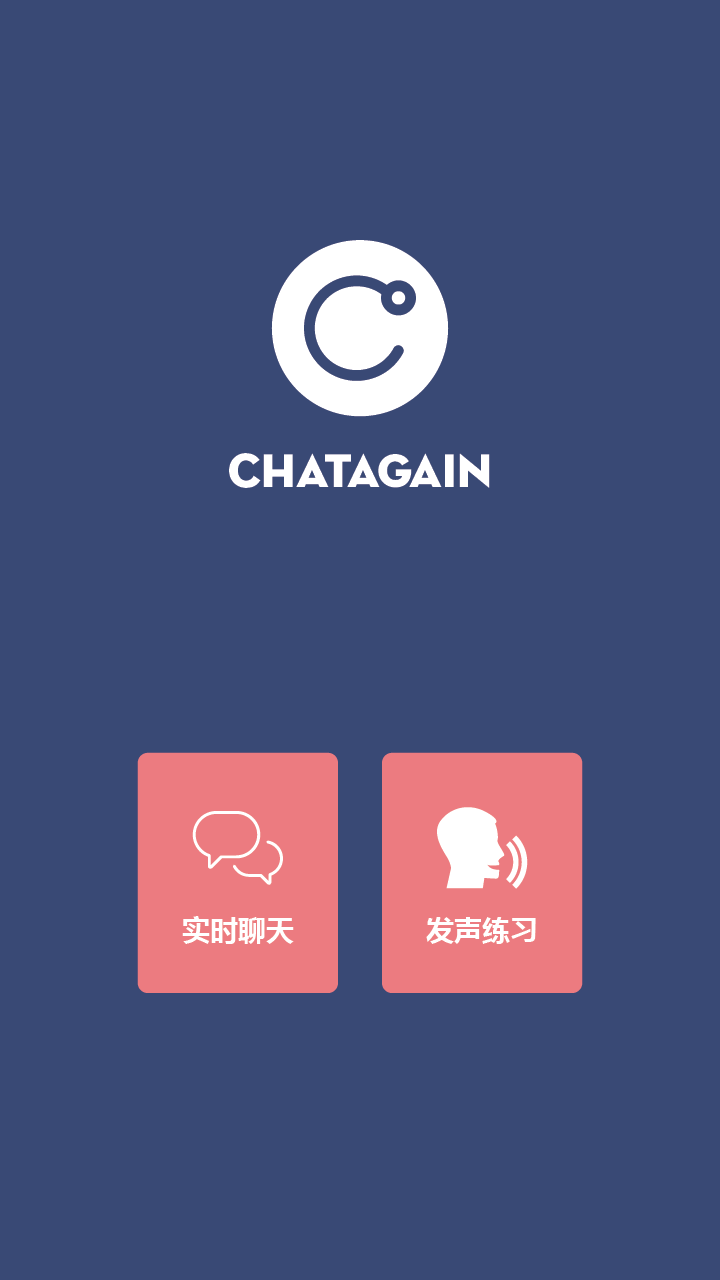
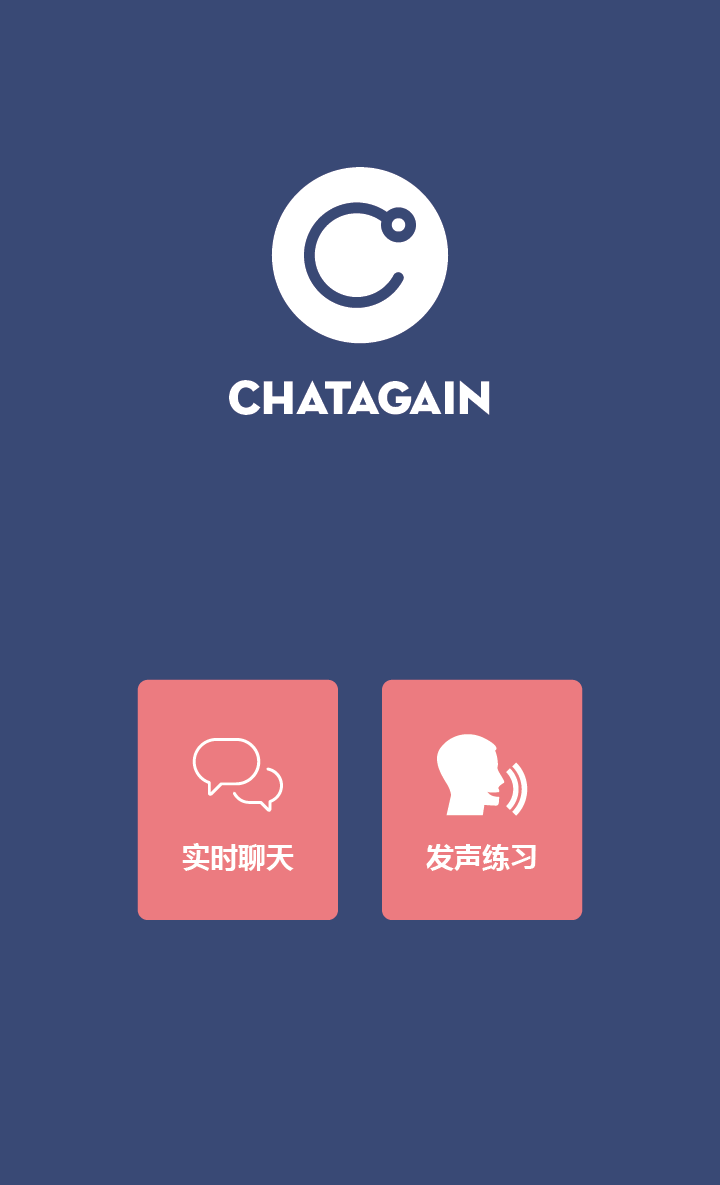
add qingjingmoni

diff --git a/chatAgain/qingjingmoni.xaml b/chatAgain/qingjingmoni.xaml
@@ -1,5 +1,5 @@
 <Page
-    x:Class="chatAgain.practicePage"
+    x:Class="chatAgain.qingjingmoni"
     xmlns="http://schemas.microsoft.com/winfx/2006/xaml/presentation"
     xmlns:x="http://schemas.microsoft.com/winfx/2006/xaml"
     xmlns:local="using:chatAgain"
@@ -9,7 +9,7 @@
 
     <Grid>
         <Grid.Background>
-            <ImageBrush Stretch="Fill" ImageSource="Assets/Projects for Accessbility-07.png"/>
+            <ImageBrush Stretch="Fill" ImageSource="Assets/Projects for Accessbility-08.png"/>
         </Grid.Background>
         <Grid.RowDefinitions>
             <RowDefinition Height="Auto" />
@@ -19,7 +19,7 @@
             <Button Name="HamButton" FontFamily="Segoe MDL2 Assets" Content="&#xE700;" FontSize="36" Click="HamClick" Foreground="White" Background="#FF2C2C2C"/>
             <TextBlock FontSize="25" HorizontalAlignment="Center" Margin="65,10,38,0" Text="CHATAGAIN" VerticalAlignment="Top" Foreground="White" FontFamily="Segoe UI Semibold"/>
         </RelativePanel>
-        <SplitView Name ="SpVi" Grid.Row="1" DisplayMode="Overlay" OpenPaneLength="200" CompactPaneLength="56" HorizontalAlignment="Left" PaneBackground="LightGray" Opacity="0.4">
+        <SplitView Name ="SpVi" Grid.Row="1" DisplayMode="Overlay" OpenPaneLength="200" CompactPaneLength="56" HorizontalAlignment="Left" PaneBackground="LightGray">
             <SplitView.Pane>
                 <ListBox Background="#FF2C2C2C" SelectionMode="Single" Name="ListBox" SelectionChanged="listChange">
                     <ListBoxItem Name="main">
@@ -39,9 +39,6 @@
                     </ListBoxItem>
                 </ListBox>
             </SplitView.Pane>
-            <SplitView.Content>
-                <Rectangle Fill="#FFC36464" HorizontalAlignment="Left" Height="34" Margin="240,10,0,0" Grid.Row="1" VerticalAlignment="Top" Width="67" Tapped="Rectangle_Tapped" Opacity="0"/>
-            </SplitView.Content>
         </SplitView>
     </Grid>
 </Page>

diff --git a/chatAgain/MainPage.xaml b/chatAgain/MainPage.xaml
@@ -11,8 +11,8 @@
         <Grid.Background>
             <ImageBrush Stretch="Fill" ImageSource="Assets/Projects for Accessbility-01.png"/>
         </Grid.Background>
-        <Rectangle HorizontalAlignment="Left" Height="115" Margin="69,345,0,0" VerticalAlignment="Top" Width="100" Tapped="NavigateToChat" Fill="#FFB26767" Opacity="0"/>
-        <Rectangle HorizontalAlignment="Left" Height="115" Margin="189,345,0,0" VerticalAlignment="Top" Width="105" Tapped="NavigateToPractice" Fill="#FFC36464" Opacity="0"/>
+        <Rectangle HorizontalAlignment="Left" Height="120" Margin="69,340,0,0" VerticalAlignment="Top" Width="100" Tapped="NavigateToChat" Fill="#FFB26767" Opacity="0"/>
+        <Rectangle HorizontalAlignment="Left" Height="120" Margin="189,340,0,0" VerticalAlignment="Top" Width="105" Tapped="NavigateToPractice" Fill="#FFC36464" Opacity="0"/>
 
     </Grid>
 </Page>

diff --git a/chatAgain/qingjingmoni.xaml.cs b/chatAgain/qingjingmoni.xaml.cs
@@ -20,12 +20,13 @@ namespace chatAgain
     /// <summary>
     /// An empty page that can be used on its own or navigated to within a Frame.
     /// </summary>
-    public sealed partial class practicePage : Page
+    public sealed partial class qingjingmoni : Page
     {
-        public practicePage()
+        public qingjingmoni()
         {
             this.InitializeComponent();
         }
+
 
         private void HamClick(object sender, RoutedEventArgs e)
         {
@@ -56,12 +57,11 @@ namespace chatAgain
                 }
             }
         }
-
-        private void Rectangle_Tapped(object sender, TappedRoutedEventArgs e)
+        private void Ellipse_Tapped(object sender, TappedRoutedEventArgs e)
         {
             if (this.Frame != null)
             {
-                this.Frame.Navigate(typeof(qingjingmoni));
+                this.Frame.Navigate(typeof(MainPage));
             }
         }
     }
